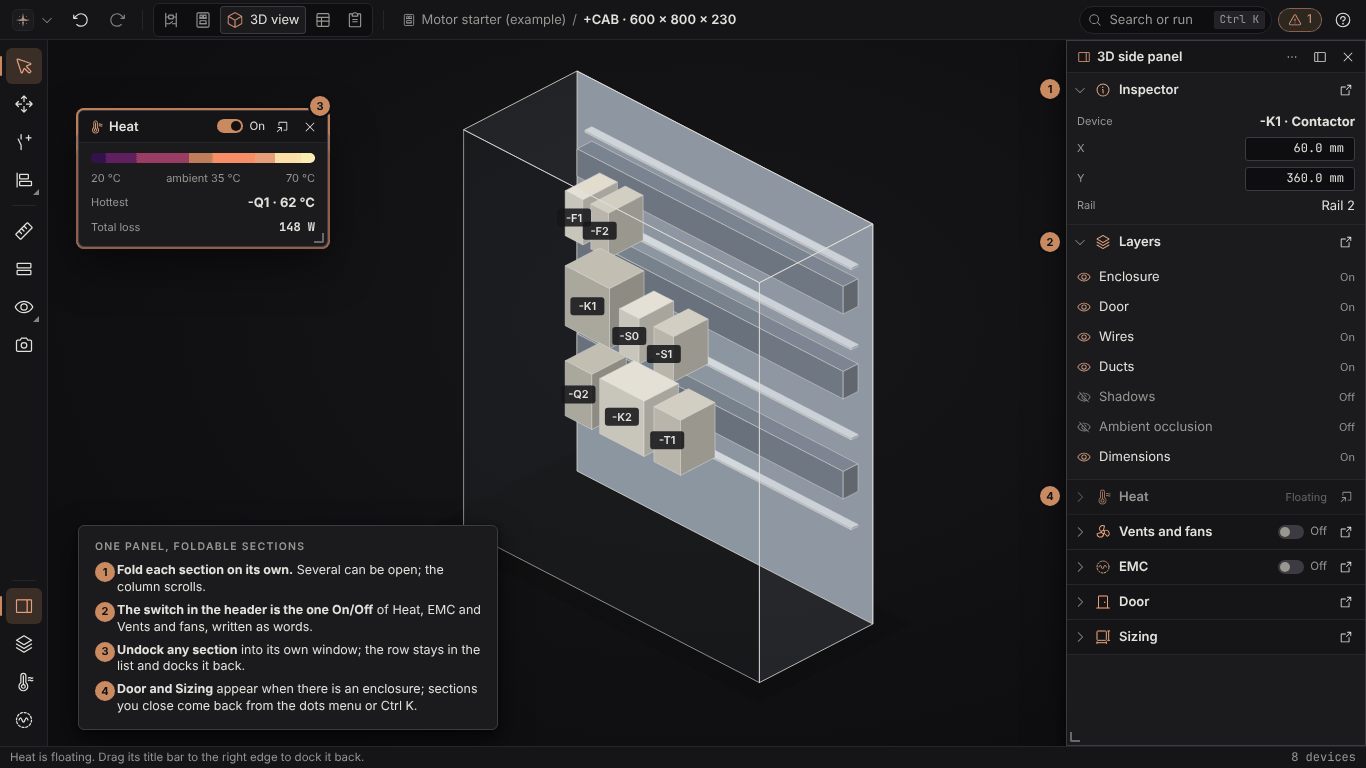
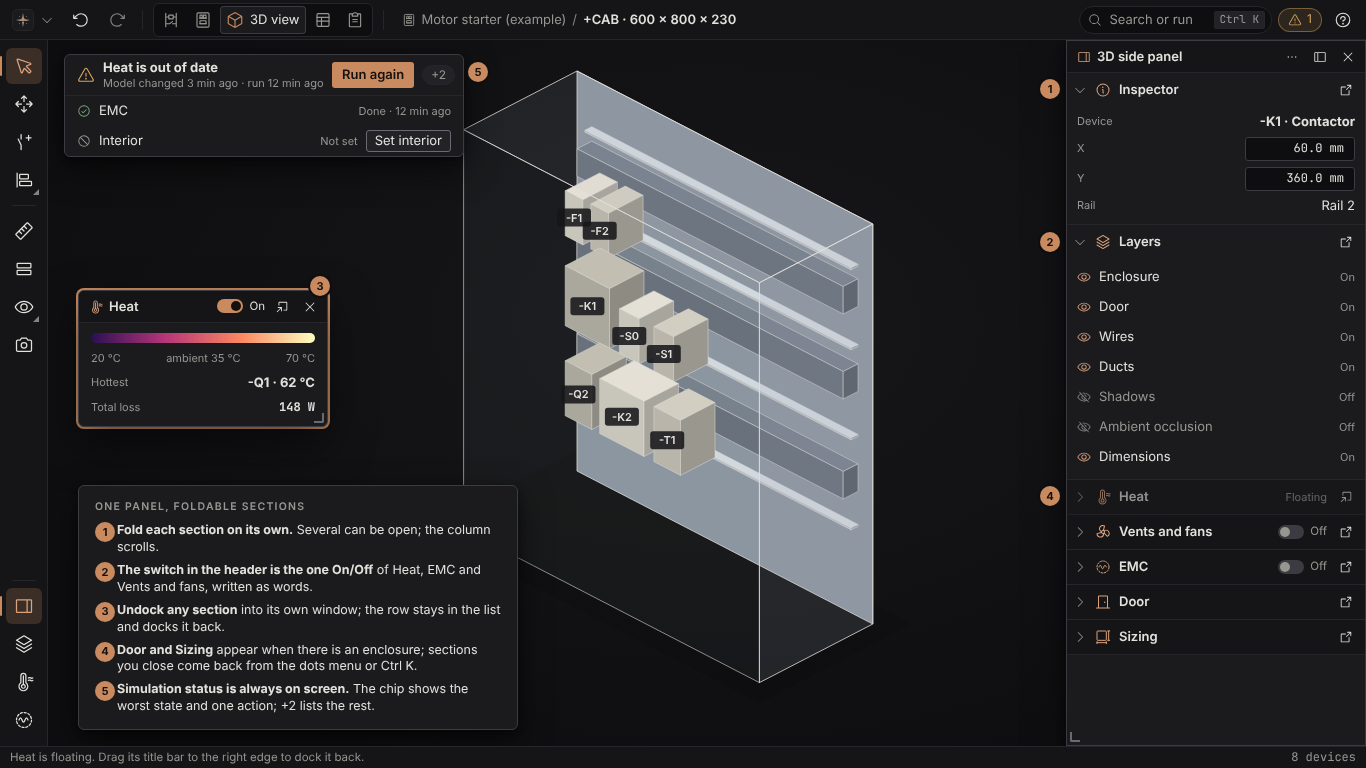
Design: always-visible simulation status chip in the 3D workspace
Claude-Session: https://claude.ai/code/session_015gECXU7iMRGbGb7PGYBbPU

Changed region(s): [[0.0307, 0.0625, 0.3382, 0.5625], [0.0615, 0.6562, 0.369, 0.9375], [0.3382, 0.0625, 0.369, 0.125]]

diff --git a/docs/design/visual-redesign/mockups/Side-panel.dc.html b/docs/design/visual-redesign/mockups/Side-panel.dc.html
@@ -81,8 +81,24 @@ body{margin:0}
         <div class="grip" style="left:0;bottom:0;transform:scaleX(-1)"></div>
       </div>
 
+      <!-- simulation status: always visible in the 3D workspace, no section needs to be open -->
+      <div class="float" style="left:16px;top:14px;width:400px;padding:0;z-index:7;overflow:hidden">
+        <div class="row gap8" style="height:40px;padding:0 8px 0 12px">
+          <i class="i i-warning i18" style="color:var(--warn)"></i>
+          <span class="col" style="gap:0;min-width:0;white-space:nowrap"><b>Heat is out of date</b><span class="cap">Model changed 3 min ago · run 12 min ago</span></span>
+          <span class="grow"></span>
+          <button class="prim" style="height:26px;padding:0 10px;white-space:nowrap">Run again</button>
+          <span class="chip" style="height:20px" aria-label="2 more">+2</span>
+        </div>
+        <div style="border-top:1px solid var(--bd)">
+          <div class="row gap8" style="height:30px;padding:0 12px"><i class="i i-check-circle i14" style="color:var(--ok)"></i><span>EMC</span><span class="grow"></span><span class="cap">Done · 12 min ago</span></div>
+          <div class="row gap8" style="height:30px;padding:0 12px"><i class="i i-prohibit i14" style="color:var(--tx2)"></i><span>Interior</span><span class="grow"></span><span class="cap">Not set</span><button class="sec" style="height:22px;padding:0 8px">Set interior</button></div>
+        </div>
+      </div>
+      <span class="nn" style="left:420px;top:22px">5</span>
+
       <!-- an undocked section: Heat as its own window, same host header -->
-      <div class="float" style="left:30px;top:70px;width:250px;z-index:6;box-shadow:0 18px 44px rgba(0,0,0,.5),0 0 0 2px var(--ac)">
+      <div class="float" style="left:30px;top:250px;width:250px;z-index:6;box-shadow:0 18px 44px rgba(0,0,0,.5),0 0 0 2px var(--ac)">
         <div class="wt"><i class="i i-thermometer-hot i14" style="color:var(--ac2)"></i><span class="t">Heat</span><span class="sw on"><i class="k"></i>On</span>
           <button class="btn" aria-label="Dock back"><i class="i i-arrow-square-in i14"></i></button><button class="btn" aria-label="Close"><i class="i i-x i14"></i></button></div>
         <div class="col gap8" style="padding:10px 12px">
@@ -96,16 +112,17 @@ body{margin:0}
 
       <span class="nn" style="right:306px;top:39px">1</span>
       <span class="nn" style="right:306px;top:192px">2</span>
-      <span class="nn" style="left:262px;top:56px">3</span>
+      <span class="nn" style="left:262px;top:236px">3</span>
       <span class="nn" style="right:306px;top:446px">4</span>
 
-      <div class="float" style="left:30px;bottom:16px;width:420px;padding:14px 16px;z-index:9">
+      <div class="float" style="left:30px;bottom:16px;width:440px;padding:14px 16px;z-index:9">
         <div class="lbl" style="margin-bottom:8px">One panel, foldable sections</div>
         <div style="display:grid;grid-template-columns:22px 1fr;row-gap:6px;align-items:start;font-size:12.5px">
           <span class="nn" style="position:static;box-shadow:none">1</span><span><b>Fold each section on its own.</b> Several can be open; the column scrolls.</span>
           <span class="nn" style="position:static;box-shadow:none">2</span><span><b>The switch in the header is the one On/Off</b> of Heat, EMC and Vents and fans, written as words.</span>
           <span class="nn" style="position:static;box-shadow:none">3</span><span><b>Undock any section</b> into its own window; the row stays in the list and docks it back.</span>
           <span class="nn" style="position:static;box-shadow:none">4</span><span><b>Door and Sizing</b> appear when there is an enclosure; sections you close come back from the dots menu or Ctrl K.</span>
+          <span class="nn" style="position:static;box-shadow:none">5</span><span><b>Simulation status is always on screen.</b> The chip shows the worst state and one action; +2 lists the rest.</span>
         </div>
       </div>
     </div>

diff --git a/docs/design/visual-redesign-3d.md b/docs/design/visual-redesign-3d.md
@@ -7,6 +7,7 @@ Graphic design thread, 2026-10-28. Addendum to `visual-redesign.md` (sections 3.
 - The other panels that can appear (Inspector, Temperature, Door, Sizing and so on) are separate popups that are hard to find, cannot be closed, and are not easy to open again.
 - Buttons are doubled: turning heat off in the 3D panel leaves it on in the top bar.
 - "Vents and fans" and "Heat" overlap each other. The owner's proposal: **one long panel on the right with individually foldable sections, each of which can be undocked into a floating window.** This page adopts that model.
+- It is very hard to see whether the simulation was done and what its status is, especially with the sections folded. Section 4 adds an always-visible status chip.
 
 ![3D side panel](visual-redesign/images/side-panel-dark.png)
 
@@ -24,7 +25,7 @@ Confirmed in the code by the 3D rework thread: `view3d.rs` sets the EMC state fr
 
 1. **One state, one owner.** Every 3D view option (a layer or an overlay) is one entry in one registry with one stored value. The section switch, a Layers row, a rail button, the Ctrl K command and a key all read and write that entry. No surface keeps a copy, and nothing recomputes the value from somewhere else each frame.
 2. **The top bar carries no view toggles.** It holds the mark, undo and redo, the workspace segment, the page, search and issues (visual-redesign.md section 3.1). The existing top-bar heat button is removed in the same change that introduces the registry.
-3. **The switch lives in the section header.** An overlay that has a section (Heat, Vents and fans, EMC) is switched on and off by the switch in its header, **written as the word On or Off next to the switch**, never by colour alone. Plain visibility layers are rows of the Layers section, with On or Off written at the right. The rail buttons for these do not switch anything: they open the side panel and unfold the section (section 4).
+3. **The switch lives in the section header.** An overlay that has a section (Heat, Vents and fans, EMC) is switched on and off by the switch in its header, **written as the word On or Off next to the switch**, never by colour alone. Plain visibility layers are rows of the Layers section, with On or Off written at the right. The rail buttons for these do not switch anything: they open the side panel and unfold the section (section 5).
 4. **Off means off.** Turning an overlay off hides its drawing and its legend, and survives selection changes, a new run and reopening the project. A test turns each option on and off from every surface and asserts the same value everywhere.
 5. **Every section can be folded, undocked, closed and found again.** Section 3 says how.
 6. **Keyboard and words.** Section headers, the switches and the Layers rows are reachable with Tab and the arrow keys; Enter or Space folds a section or flips a switch; Esc closes the topmost floating section. A switch is never colour only.
@@ -52,26 +53,49 @@ Behaviour of each section header (left to right: fold chevron, icon, title, swit
 
 The **same component** can serve the Cabinet workspace (its own section list, for example Inspector, Heat, Vents and fans, EMC on the plate, Placement rules, Cabinet table). It is a section list per workspace, a data table like the rail tables, so a new section adds one row.
 
-## 4. The rail on the 3D workspace
+## 4. Simulation status
+
+Owner, 2026-10-28: in the 3D view it is very hard to see whether the simulation has been done and what its status is, especially when the sections are folded, because a normal user does not know which section to open. **Status never lives inside a section.**
+
+- **An always-visible status chip** sits in the top-left corner of the 3D canvas (inset 12, clear of the view cube on the right; direction.md section 6 rule 6). It is there whether the side panel is open, folded, floating or closed.
+- It shows the **most important state** of the analyses behind the view, as an icon, words, one detail line and **one action**. The `+N` button opens a short list of the others, each with its own state and action.
+
+| State | Icon and words | Detail line | Action |
+| --- | --- | --- | --- |
+| Not run | play, "Heat has not been run" | What running gives, for example "Shows temperatures and the hottest device" | Run |
+| Running | spinner, "Heat is running" | Progress and time left; the spinner stops moving with Reduce motion and the words stay | Cancel |
+| Done | check-circle, "Heat is done" | Age ("3 min ago") | Open Heat (opens the side panel and unfolds the Heat section) |
+| Out of date | warning, "Heat is out of date" | "Model changed 3 min ago · last run 12 min ago" | Run again |
+| Failed | warning-octagon, "Heat failed" | The reason in plain words | Details, Run again |
+| Not set | prohibit, "Interior is not set" | What is missing | Set interior |
+
+- The same states apply to **EMC** ("EMC check is out of date") and any other analysis the 3D view shows; "Interior is not set" and similar missing inputs are states of the analysis that needs them.
+- **Priority** when several apply: Failed, Running, Out of date or Not set, Not run, Done. When everything is Done the chip stays, quiet, with the age ("Heat done 3 min ago"), so the answer to "was it run?" is always on screen.
+- **One owner:** each analysis has one status value (state, started, finished, the model revision it ran on, progress, error). "Out of date" is computed by comparing the model revision at the run with the current one, in one place. The chip, the Heat section header and Ctrl K read that value; nothing keeps its own copy.
+- States are words and an icon, never colour alone (warning and error colours support them). The chip is keyboard reachable and the action runs with Enter.
+- On a narrow canvas the chip shrinks to icon and the state word; the detail line moves to the tooltip.
+
+## 5. The rail on the 3D workspace
 
 The 3D rail (visual-redesign.md section 3.2) keeps its tools and assists. Its panels zone has four places: **Side panel** (show or hide the whole panel), **Layers**, **Heat** and **EMC**. The last three open the side panel if it is closed and unfold their section; they do not switch an overlay (rule 3). The zone stays at 4 base places, so the add-on slot (visual-redesign-addons.md section 3) fits as the fifth. "Build order" moves to the assists zone (5). "Wire runs" is the Wires row of Layers.
 
-## 5. Tests
+## 6. Tests
 
 - **Single state:** for each registered option, set it from the section switch or row, Ctrl K and the key; assert all surfaces report the same value and that the drawing agrees.
 - **No duplicates:** a test lists the options each surface shows and fails if an option has a second owner or appears in the top bar (rule 2).
 - **Foldable, undockable, closable:** every section has fold, undock and close; undock then dock back restores the order; close then "Show" restores the section and its fold state.
 - **Off survives:** turn EMC and Heat off, select another device, rerun, reopen the project; they stay off.
-- **Keyboard:** the headers, switches and Layers rows are reachable and operable without the mouse.
+- **Keyboard:** the headers, switches, Layers rows and the status chip are reachable and operable without the mouse.
+- **Status:** run, move a device, and assert the chip goes Done then Out of date with the right words and action; fail a run and assert the reason shows; with every section folded and the panel closed the chip is still drawn.
 
-## 6. Order of work and lane V3b
+## 7. Order of work and lane V3b
 
 Lane V3b (the 3D rail) is **built together with the 3D rework**, as one thread. Suggested order, each step its own PR:
 
-1. **Registry and top bar** (needs nothing from the redesign): the view-option registry, rule 4's test, the top-bar heat button removed, EMC fixed. This ships on today's UI.
+1. **Registry, status and top bar** (needs nothing from the redesign): the view-option registry, rule 4's test, the top-bar heat button removed, EMC fixed, and the simulation status chip with its single status value (section 4). This ships on today's UI.
 2. **Side panel** (today's panel helper; docking arrives with lane V1): the section column with fold, undock, close and the Sections menu; Inspector, Layers, Heat, Vents and fans, EMC, Door and Sizing as sections.
 3. **3D rail** (needs lane V3a, the rail core): the rail of the board, with the panels zone of section 4.
 
-## 7. Honest limits
+## 8. Honest limits
 
-The board is an HTML picture, not egui output. Dragging a header out of a panel to undock it is custom code on top of egui areas; lane V1 must prove it with scripted drag tests, and the undock button is the fallback if the drag proves unreliable. "Temperature" is merged into Heat on the assumption that they show the same data; the 3D thread confirms. Door and Sizing as top-level sections follow the owner's list; if either edits geometry rather than showing properties, it stays a tool and its section shows read-only values.
+The board is an HTML picture, not egui output. Dragging a header out of a panel to undock it is custom code on top of egui areas; lane V1 must prove it with scripted drag tests, and the undock button is the fallback if the drag proves unreliable. "Temperature" is merged into Heat on the assumption that they show the same data; the 3D thread confirms. Whether each analysis can report progress, a model revision and an error reason today is for the 3D thread to confirm in the code; where one cannot, the chip shows Done or Not run without a progress figure. Door and Sizing as top-level sections follow the owner's list; if either edits geometry rather than showing properties, it stays a tool and its section shows read-only values.

diff --git a/handoff/visual-design/PROGRESS.md b/handoff/visual-design/PROGRESS.md
@@ -4,3 +4,4 @@
 2026-10-28 13:00 UTC Add-ons PR #1575 reviewer fixes: Cabinet Cut list moved to assists (panels zone 5), Controllers panel has no key of its own, E-stop simulation-only note, sandbox and signed pill marked as design target, stamp corrected.
 2026-10-28 13:45 UTC 3D overlays and panels addendum docs/design/visual-redesign-3d.md (owner complaint: EMC cannot be turned off, doubled heat button, popups): one state per option, no view toggles in the top bar, right panel group with tabs, Panels entry; V3b to be built with the 3D rework thread.
 2026-10-28 13:48 UTC 3D spec revised to the owner's model: one side panel with foldable, undockable sections (Inspector, Layers, Heat, Vents and fans, EMC, Door, Sizing); board side-panel; 3D rail panels zone reduced to Side panel, Layers, Heat, EMC; R3 nits folded in. Supersedes #1582.
+2026-10-28 13:51 UTC 3D spec: always-visible simulation status chip (Not run, Running, Done, Out of date, Failed, Not set) added to side-panel board and docs/design/visual-redesign-3d.md section 4.
